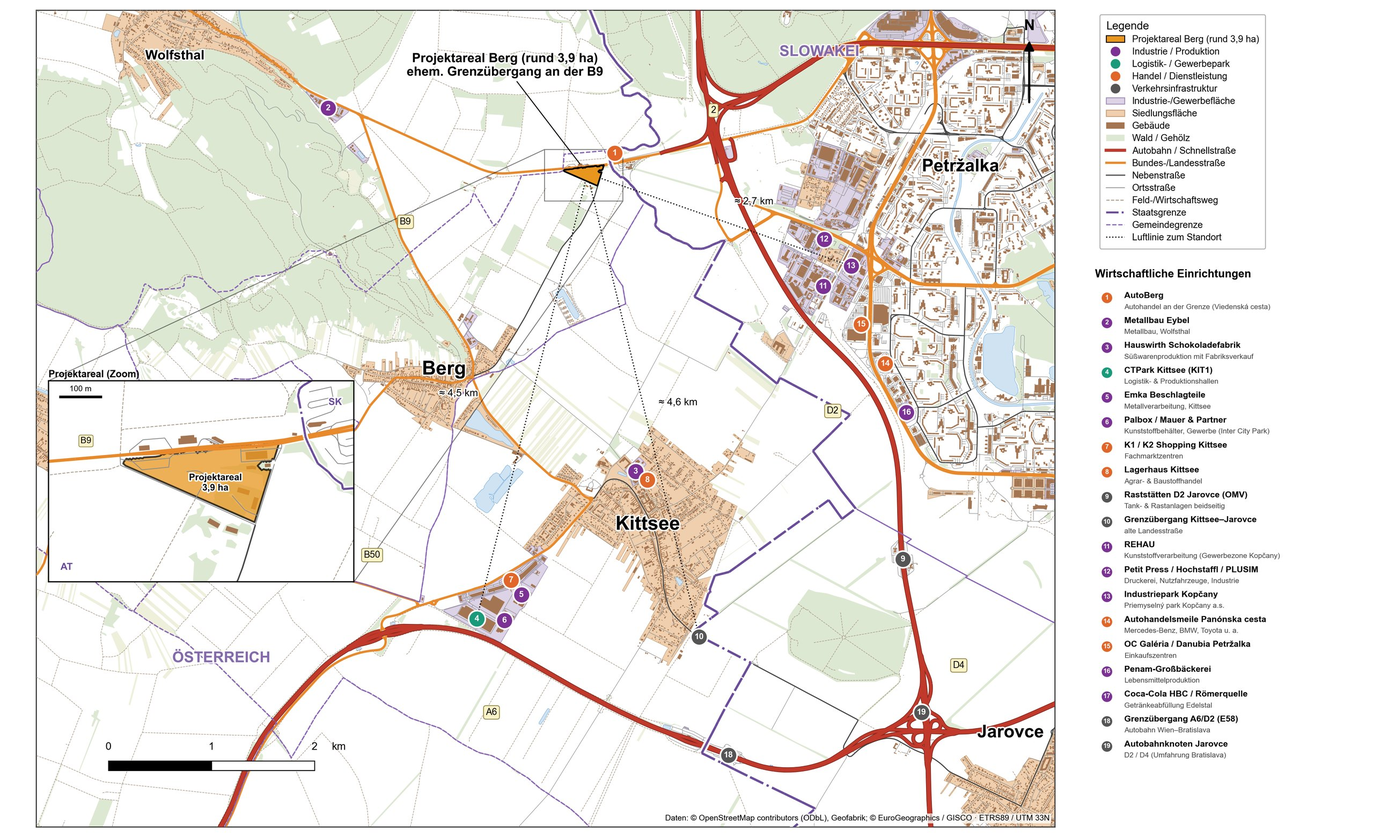
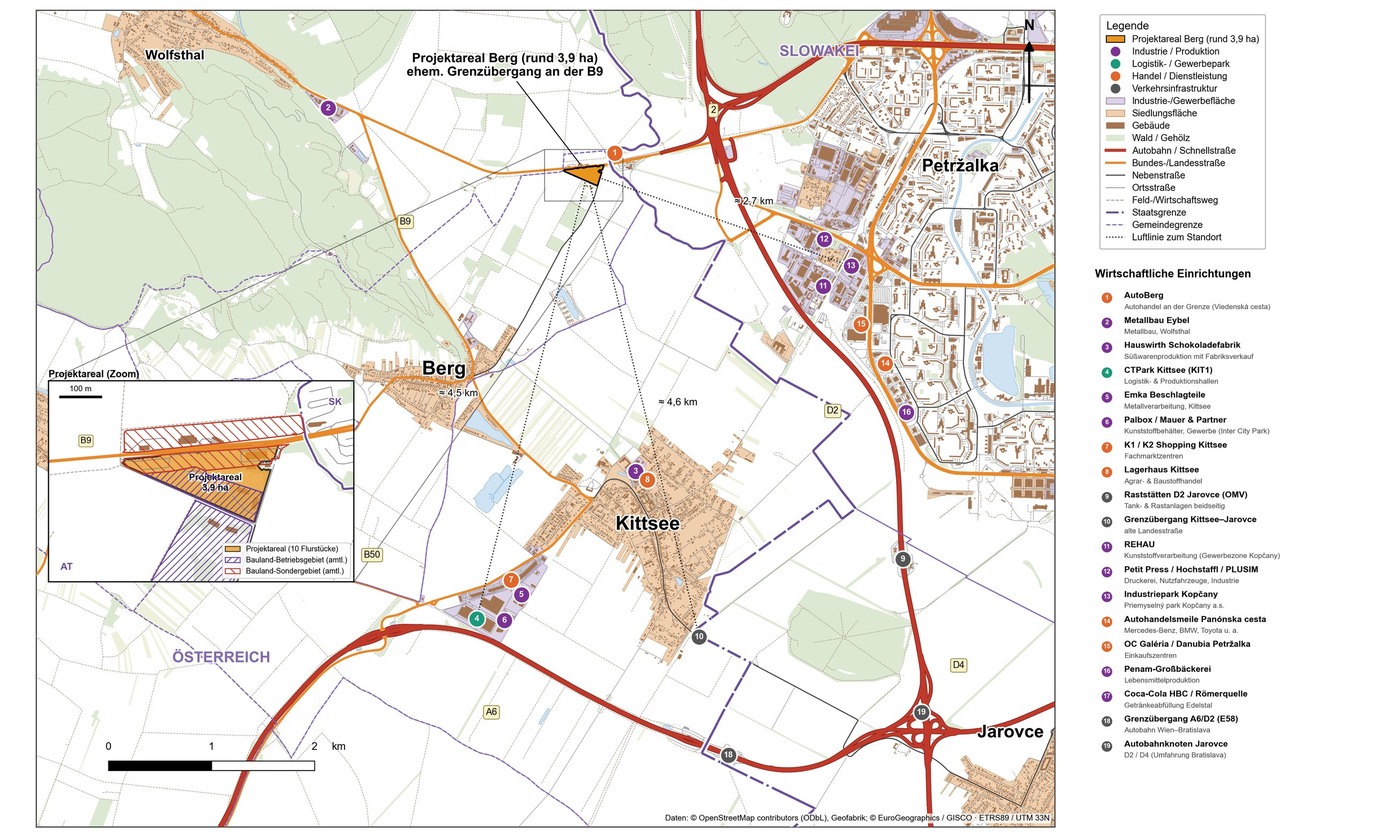
Nachtrag: Widmungsabgleich (NÖ OGD), Linie 901, Orth an der Donau
- Projektareal mit amtlicher Widmungsumhüllender abgeglichen (BB/BS bestätigt,
  rechtswirksam seit 2023; angrenzende 4,19 ha BB und 2,32 ha BS ergänzt)
- Rechtslage BS-Zweckbindung (§ 16 Abs. 1 Z 6, § 25 NÖ ROG 2014)
- Linie 901: fährt laut amtl. Fahrplan ohne Halt am Areal vorbei
- Orth an der Donau: Betriebsgebiet Nord 4,4 ha statt ~3,9 ha
- Detailkarte: Inset mit amtlichen Widmungsflächen

Changed region(s): [[0.0935, 0.4923, 0.2492, 0.7077]]

diff --git a/index.html b/index.html
@@ -42,7 +42,7 @@
         <dt>Projektareal</dt><dd>rund 3,9 ha · 10 Flurstücke · KG Berg 05102</dd>
         <dt>Ziel</dt><dd>hochwertiger, arbeitsplatzintensiver Betriebsstandort in der TwinCity-Region</dd>
       </dl>
-      <div class="version-note">Diese Fassung ersetzt die Version vom 23.09.2026. Sie korrigiert unter anderem die Bevölkerungsdynamik Bratislavas (Zensusbruch 2021) und die Verortung des VW-Clusters und ergänzt Karten zu Wirtschaftsraum, Energieinfrastruktur und Pkw-Erreichbarkeit. Alle Änderungen stehen im <a href="#aenderungen" style="color:#f5c27a">Änderungsprotokoll</a>.</div>
+      <div class="version-note">Diese Fassung ersetzt die Version vom 23.09.2026 (Nachtrag 29.09.: Widmungsabgleich, Linie 901, Orth). Sie korrigiert unter anderem die Bevölkerungsdynamik Bratislavas (Zensusbruch 2021) und die Verortung des VW-Clusters und ergänzt Karten zu Wirtschaftsraum, Energieinfrastruktur und Pkw-Erreichbarkeit. Alle Änderungen stehen im <a href="#aenderungen" style="color:#f5c27a">Änderungsprotokoll</a>.</div>
     </div>
     <figure>
       <img src="assets/karte2_detail_standort.jpg" alt="Detailkarte: Projektareal Berg an der B9 mit wirtschaftlichen Einrichtungen in Kittsee, Jarovce und Petržalka">
@@ -74,7 +74,7 @@
     <li><b>Fachkräfte: Engpässe bei Mechatronik und Logistik, Chancen bei Wissensdiensten</b>Mechatronik und technische Zulieferung sind beidseits der Grenze Mangelfelder und konkurrieren mit dem VW-Cluster Bratislava. Wissensbasierte Dienstleistungen sind am wenigsten umkämpft. Der Europacampus Hainburg (ab 2028) ist der naheliegende Bildungsanker (Kap. 4).</li>
     <li><b>Energie: Hochspannung in der Nähe, Wind in Sichtweite</b>Die nächste 110-kV-Leitung verläuft rund 1 km vom Areal. Im Umkreis von 15 km sind in OpenStreetMap elf Windparks mit zusammen rund 213 MW erfasst. Anschlusskapazitäten sind mit Netz NÖ bzw. APG zu klären (Kap. 6).</li>
     <li><b>Empfohlene Positionierung</b>Kleinteilig, hochwertig und komplementär zu den großflächigen Logistik- und Automotive-Standorten der Region. Schwerpunkt auf wissens- und ausbildungsnahen Nutzungen mit Bezug nach Bratislava und zum Europacampus (Kap. 8).</li>
-    <li><b>Zentrale Restriktionen</b>Umwidmung der Glf-Teilflächen (0,63 ha), fehlende ÖV-Anbindung des Areals, fehlende belastbare Flächennachfragedaten sowie die Nähe zu slowakischen Natura-2000-Gebieten (&lt; 1 km) (Kap. 6, 8).</li>
+    <li><b>Zentrale Restriktionen</b>Umwidmung der Glf-Teilflächen (0,63 ha), Zweckbindung der BS-Flächen (1,6 ha), fehlende ÖV-Anbindung des Areals (die Linie 901 fährt ohne Halt vorbei), fehlende belastbare Flächennachfragedaten sowie die Nähe zu slowakischen Natura-2000-Gebieten (&lt; 1 km) (Kap. 6, 8).</li>
   </ul>
 </div>
 </section>
@@ -98,15 +98,38 @@
   <h3>Flurstücke und Flächenwidmung</h3>
   <p>Die zehn Flurstücke haben keine einheitliche Widmung.</p>
   <ul class="clean">
-    <li><b>Bereits gewerblich nutzbar:</b> Bauland-Betriebsgebiet (BB, 1,67 ha) und Bauland-Sondergebiet für Einrichtungen des Grenzverkehrs (BS, 1,62 ha). Beim BS ist zu prüfen, ob die Zweckbindung „Grenzverkehr“ eine gewerbliche Nachnutzung ohne Umwidmung zulässt.</li>
+    <li><b>Bauland-Betriebsgebiet (BB, 1,67 ha):</b> gewerblich nutzbar.</li>
+    <li><b>Bauland-Sondergebiet (BS, 1,62 ha):</b> nur für den im Flächenwidmungsplan festgelegten Zweck nutzbar (siehe Kasten unten).</li>
     <li><b>Umwidmung nötig:</b> Ein östlicher Teil (Flurstücke 479/7 und 479/8) ist als Grünland-Land- und Forstwirtschaft (Glf, 0,63 ha, 16 % der Fläche) gewidmet.</li>
     <li><b>Kleinstflurstücke:</b> Drei Flurstücke umfassen zusammen nur rund 0,035 ha. Das ist für Zusammenlegung und Eigentumsklärung relevant.</li>
   </ul>
 
   <figure class="fig">
     <img src="assets/karte_widmung_projektareal.png" alt="Flurstücke und rekonstruierte Flächenwidmung des Projektareals Berg">
-    <figcaption><b>Abb. 2: Flurstücke und rekonstruierte Flächenwidmung</b> (BB 1,67 ha, BS 1,62 ha, Glf 0,63 ha; Σ 3,92 ha). Die Widmung ist aus der Kartenskizze des Honorarangebots rekonstruiert und nicht rechtsverbindlich. In der Grafik ist die Staatsgrenze nur schematisch als Gerade dargestellt; den genauen Verlauf zeigt Abb. 1. Quelle: BEV Digitale Katastralmappe; eigene Darstellung.</figcaption>
+    <figcaption><b>Abb. 2: Flurstücke und rekonstruierte Flächenwidmung</b> (Bezeichnung „BS – Sondergebiet (Einrichtungen des Grenzverkehrs)“ aus dem Honorarangebot übernommen; zum tatsächlichen Zusatz siehe Kasten unten) (BB 1,67 ha, BS 1,62 ha, Glf 0,63 ha; Σ 3,92 ha). Die Widmung ist aus der Kartenskizze des Honorarangebots rekonstruiert und nicht rechtsverbindlich. In der Grafik ist die Staatsgrenze nur schematisch als Gerade dargestellt; den genauen Verlauf zeigt Abb. 1. Quelle: BEV Digitale Katastralmappe; eigene Darstellung.</figcaption>
   </figure>
+
+  <div class="box fix">
+    <h4>Abgleich mit den amtlichen Widmungsdaten des Landes NÖ</h4>
+    <p>Der offene Datensatz „Widmungsumhüllende“ des Landes NÖ (Stand 22.09.2026) bestätigt die Rekonstruktion:</p>
+    <ul class="clean">
+      <li>Im Areal liegen 1,67 ha Bauland-Betriebsgebiet und 1,61 ha Bauland-Sondergebiet.</li>
+      <li>Beide Widmungen sind seit 5.1.2023 rechtswirksam, wurden also erst vor Kurzem festgelegt.</li>
+    </ul>
+    <p><b>Neu:</b> Unmittelbar angrenzend, aber außerhalb der zehn Flurstücke, sind weitere Flächen gewidmet:</p>
+    <ul class="clean">
+      <li>4,19 ha Bauland-Betriebsgebiet südwestlich des Areals</li>
+      <li>2,32 ha Bauland-Sondergebiet nördlich der B9, im ehemaligen Abfertigungsbereich</li>
+    </ul>
+    <p>Rund um den früheren Grenzübergang sind damit knapp 10 ha Bauland gewidmet. Eigentum und Verfügbarkeit dieser Nachbarflächen sollten geklärt werden. Sie sind ein mögliches Erweiterungs- oder Arrondierungspotenzial und zugleich eine mögliche Konkurrenz.</p>
+  </div>
+
+  <div class="box warn">
+    <h4>Zweckbindung des Bauland-Sondergebiets (BS)</h4>
+    <p><b>Rechtslage:</b> Nach § 16 Abs. 1 Z 6 NÖ ROG 2014 sind Sondergebiete für bauliche Nutzungen bestimmt, „deren besonderer Zweck im Flächenwidmungsplan durch einen Zusatz zur Signatur ausdrücklich festgelegt ist“. Eine gewerbliche Nutzung außerhalb dieses Zwecks ist ohne Änderung des Flächenwidmungsplans nicht zulässig; nötig wäre eine Umwidmung in BB oder ein neuer Zusatz. Bauvorhaben müssen widmungskonform sein.</p>
+    <p><b>Anlass für eine Änderung:</b> In Frage kommt § 25 Abs. 1 Z 2 NÖ ROG („wesentliche Änderung der Grundlagen“), etwa der Wegfall der Grenzkontrollen seit dem Schengen-Beitritt 2007. Alternativ Z 5 (Umsetzung eines Entwicklungskonzepts) im Zuge der ÖEK-Anpassung.</p>
+    <p><b>Auffällig:</b> Das Land klassifiziert die BS-Flächen am Areal in seinen Geodaten nicht als Verkehrs- oder Grenzeinrichtung. Die Einstufung (HILUCS) lautet „Kultur-, Unterhaltungs- und Freizeitdienstleistungen“. Der tatsächliche Zusatz weicht damit möglicherweise von „Einrichtungen des Grenzverkehrs“ ab. Er ist im rechtsgültigen Flächenwidmungsplan bei der Gemeinde einzusehen. Davon hängt ab, welche Nutzungen auf 1,6 ha ohne Umwidmung möglich sind.</p>
+  </div>
 
   <div class="two-col">
     <div class="box info"><h4>Technische Infrastruktur</h4><p><b>Glasfaser:</b> symmetrischer Gigabit-Anschluss (FTTH, A1) am Zollamtsstandort, Datenstand Q1/2026. <b>Mobilfunk:</b> 5G bis 563 Mbit/s (Drei), 4G aller drei Netzbetreiber. <b>Strom:</b> 110-kV-Leitung in rund 1 km Entfernung (Kap. 6).</p></div>
@@ -240,7 +263,12 @@
   <div class="box fix">
     <h4>Ansatzpunkte für die „letzte Meile“</h4>
     <ul class="clean">
-      <li><b>Linie 901 (Bratislava–Hainburg):</b> Sie verkehrt laut IDS BK von Bratislava (Most SNP, Einsteinova) über Wolfsthal nach Hainburg und fährt damit voraussichtlich auf der B9 direkt am Areal vorbei. Takt: stündlich, in der Hauptverkehrszeit alle 30 Minuten. Eine Haltestelle am Areal sollte vorrangig geprüft werden.</li>
+      <li><b>Linie 901 (Bratislava–Hainburg, ARRIVA/IDS BK):</b> Laut amtlichem Fahrplan (Lizenz 102833) fährt der Bus von Bratislava, Einsteinova ohne Zwischenhalt in 9 Minuten nach Wolfsthal, Am Friedhof. Das geht nur über den Grenzübergang Berg–Petržalka, der Bus fährt also auf der B9 direkt am Areal vorbei. Eine Haltestelle gibt es dort derzeit nicht.
+        <ul class="clean" style="margin-top:.4em">
+          <li><b>Angebot:</b> Laut IDS BK aktuell werktags 23 Kurspaare, in der Hauptverkehrszeit alle 30 Minuten, sonst etwa stündlich (Fahrplan-PDF 2022: 16 Fahrten je Richtung); sonntags etwa alle zwei Stunden.</li>
+          <li><b>Machbarkeit:</b> Ein zusätzlicher Halt ist naheliegend. Er kostet nur rund eine Minute Fahrzeit, liegt in der bereits bedienten Tarifzone 190, und an der B9 sind ehemalige Abfertigungsflächen vorhanden.</li>
+          <li><b>Voraussetzungen:</b> eine Änderung der Linienkonzession (Antrag über VOR/Land NÖ und IDS BK) sowie die Zustimmung des Straßenerhalters der B9 (Land NÖ) für eine Haltestellenbucht.</li>
+        </ul></li>
       <li><b>Linie 902 (Testbetrieb, Interreg NUTSHELL@CE):</b> Bratislava-Petržalka – Kittsee – Berg – Edelstal – Prellenkirchen, dreimonatig und kostenlos. Linienführung, Haltestelle am Areal und dauerhafter Betrieb sind noch offen.</li>
     </ul>
   </div>
@@ -415,7 +443,7 @@
     <tbody>
       <tr style="background:#fbfbfa"><td><b>Berg (Referenz)</b></td><td>3,9 ha</td><td colspan="5">kein eigener Autobahnanschluss · Wissensbezug angestrebt (Europacampus) · Gemeinde/Land · direkt an der Grenze</td><td>–</td></tr>
       <tr><td>Techno-Park Tulln</td><td>rund 5 ha</td><td><span class="pill good">hoch</span></td><td><span class="pill mid">teilweise</span></td><td><span class="pill good">hoch</span></td><td><span class="pill good">hoch</span></td><td><span class="pill mid">teilweise</span></td><td>Thematischer Fokus, Campus-/Netzwerklogik</td></tr>
-      <tr><td>Orth an der Donau</td><td>lt. Vorfassung ~3,9 ha*</td><td><span class="pill good">hoch</span></td><td><span class="pill good">hoch</span></td><td><span class="pill na">gering</span></td><td><span class="pill good">hoch</span></td><td><span class="pill mid">teilweise</span></td><td>Maßvolle, kommunal steuerbare Entwicklung</td></tr>
+      <tr><td>Orth an der Donau (Betriebsgebiet Nord)</td><td>rund 4,4 ha*</td><td><span class="pill good">hoch</span></td><td><span class="pill good">hoch</span></td><td><span class="pill na">gering</span></td><td><span class="pill good">hoch</span></td><td><span class="pill mid">teilweise</span></td><td>Maßvolle, kommunal steuerbare Entwicklung</td></tr>
       <tr><td>xista science park</td><td>4.060 m² BGF</td><td><span class="pill mid">teilweise</span></td><td><span class="pill good">hoch</span></td><td><span class="pill good">hoch</span></td><td><span class="pill good">hoch</span></td><td><span class="pill na">gering</span></td><td>Kleine, flexible Einheiten mit Forschungsanker</td></tr>
       <tr><td>TFZ Wieselburg-Land</td><td>k. A.</td><td><span class="pill mid">teilweise</span></td><td><span class="pill good">hoch</span></td><td><span class="pill good">hoch</span></td><td><span class="pill good">hoch</span></td><td><span class="pill na">gering</span></td><td>Modulare Entwicklung, gemeinsame Versuchsinfrastruktur</td></tr>
       <tr><td>Access Industrial Park Gmünd–Č. Velenice (AT–CZ)</td><td>rund 83 ha</td><td><span class="pill na">gering</span></td><td><span class="pill good">hoch</span></td><td><span class="pill na">gering</span></td><td><span class="pill good">hoch</span></td><td><span class="pill good">hoch</span></td><td>Zweisprachige, gemeinsame Governance und Vermarktung</td></tr>
@@ -425,11 +453,11 @@
       <tr><td>Avantis Aachen–Heerlen (DE–NL)</td><td>rund 40 ha</td><td><span class="pill mid">teilweise</span></td><td><span class="pill na">gering</span></td><td><span class="pill mid">teilweise</span></td><td><span class="pill good">hoch</span></td><td><span class="pill mid">teilweise</span></td><td>Warnbeispiel: Profil ohne Nachfrageanker driftet</td></tr>
     </tbody>
   </table></div>
-  <p style="font-size:.88rem;color:var(--muted)">Farben zeigen die Ähnlichkeit zu Berg: grün = hoch, gelb = teilweise, grau = gering. * Die Flächenangabe zu Orth ist identisch mit Berg und daher zu verifizieren. Korrigiert gegenüber der Vorfassung: Collegium Polonicum hat als Einzelgebäude nur „teilweise“ Flächenähnlichkeit; die Trägerschaft durch Universitäten ist nur „teilweise“ mit Gemeinde/Land vergleichbar.</p>
+  <p style="font-size:.88rem;color:var(--muted)">Farben zeigen die Ähnlichkeit zu Berg: grün = hoch, gelb = teilweise, grau = gering. * Orth an der Donau hat laut amtlichen Widmungsdaten 35,6 ha Bauland-Betriebsgebiet in neun Flächen. Keine davon hat rund 3,9 ha. Die größte Fläche (20,6 ha) ist das Pfizer-Werk. Mit Berg vergleichbar ist am ehesten das „Betriebsgebiet Nord“ mit 4,4 ha, gewidmet seit 2022. Die Angabe „~3,9 ha“ der Vorfassung war nicht belegbar. Eigentum der Gemeinde und Lage an der L9 sind noch zu bestätigen. Korrigiert gegenüber der Vorfassung: Collegium Polonicum hat als Einzelgebäude nur „teilweise“ Flächenähnlichkeit; die Trägerschaft durch Universitäten ist nur „teilweise“ mit Gemeinde/Land vergleichbar.</p>
 
   <details><summary>Steckbriefe der Referenzstandorte</summary><div>
     <p><b>Techno-Park Tulln (~5 ha):</b> Teil des Technopols Tulln, Fokus auf biobasierte Technologien. Die Flächen sind vollständig verwertet, Träger sind ecoplus und regionale Partner.</p>
-    <p><b>Orth an der Donau:</b> Kommunales Betriebsgebiet im Eigentum der Marktgemeinde, verkehrsintensive Nutzungen sind begrenzt. Lehre: klare Kriterien vor der Vermarktung.</p>
+    <p><b>Orth an der Donau:</b> „Betriebsgebiet Nord“, rund 4,4 ha Bauland-Betriebsgebiet, gewidmet seit 2022. Laut Vorfassung im Eigentum der Marktgemeinde und mit Beschränkung verkehrsintensiver Nutzungen; beides ist noch zu bestätigen. Lehre: klare Kriterien vor der Vermarktung.</p>
     <p><b>xista science park (Klosterneuburg):</b> rund 4.060 m² Büro/Labor, Einheiten ab ca. 15 m², Anbindung an das ISTA. Setzt eine konkrete Forschungspartnerschaft voraus.</p>
     <p><b>TFZ Wieselburg-Land:</b> Flexible Büro-, Labor- und Versuchsflächen zu Bioenergie, Agrar- und Lebensmitteltechnologie sowie Wasser. Die Grenzlage fehlt.</p>
     <p><b>Access Industrial Park Gmünd–České Velenice:</b> Gegründet 1991, gilt als erster grenzüberschreitender Industriepark Europas (rund 33 ha AT, 50 ha CZ). Rund 45 Unternehmen mit etwa 1.800 Beschäftigten.</p>
@@ -463,7 +491,7 @@
       <li>0,67 Mio. Einwohner:innen in 30 Minuten (grenzüberschreitend)</li>
       <li>Gigabit-Glasfaser (FTTH) und 5G bereits vorhanden</li>
       <li>Hochspannungsnetz in rund 1 km, starke Windkraftregion</li>
-      <li>Zu 84 % bereits als Bauland (BB/BS) gewidmet</li>
+      <li>Zu 84 % bereits als Bauland gewidmet (seit 2023); weitere 6,5 ha Bauland direkt angrenzend</li>
     </ul></div>
     <div class="w"><h4>Schwächen</h4><ul>
       <li>Kleines, zersplittertes Areal (10 Flurstücke, 3 Kleinstflurstücke)</li>
@@ -473,7 +501,7 @@
     </ul></div>
     <div class="o"><h4>Chancen</h4><ul>
       <li>Kooperation mit dem Europacampus Hainburg (ab 2028)</li>
-      <li>Haltestelle der Linie 901 bzw. 902 am Areal</li>
+      <li>Haltestelle der Linie 901 am Areal (der Bus fährt bereits vorbei) bzw. der Linie 902</li>
       <li>Green-Tech-Profil mit Bezug zur regionalen Windkraft</li>
       <li>Grenzüberschreitende Governance (Vorbild: Access Industrial Park)</li>
       <li>Kaufkräftige Nachfrage aus Bratislava für Dienstleistungen und Tagungen</li>
@@ -481,7 +509,7 @@
     <div class="t"><h4>Risiken</h4><ul>
       <li>Fachkräftekonkurrenz mit VW-Cluster und Industrie Bratislava (Mechatronik, Logistik)</li>
       <li>Nahe Konkurrenzflächen: CTPark Kittsee, Gewerbezone Kopčany, langfristig Jarovce–Kittsee</li>
-      <li>Umwidmung der Glf-Flächen mit offenem Ausgang; Zweckbindung der BS-Flächen</li>
+      <li>Umwidmung der Glf-Flächen mit offenem Ausgang; BS-Flächen nur für den festgelegten Zweck nutzbar</li>
       <li>Natura-2000-Gebiete in &lt; 1 km (Slowakei)</li>
     </ul></div>
   </div>
@@ -523,7 +551,8 @@
   <h3>Nächste Schritte</h3>
   <ol class="clean">
     <li>Kooperationsmöglichkeiten mit dem Europacampus Hainburg sondieren (USTP, TU Wien).</li>
-    <li>Haltestelle der Linie 901 am Areal mit VOR und IDS BK prüfen; Testbetrieb der Linie 902 auswerten.</li>
+    <li>Antrag auf eine Haltestelle der Linie 901 am Areal über VOR/Land NÖ und IDS BK stellen; Testbetrieb der Linie 902 auswerten.</li>
+    <li>Den Wortlaut des BS-Zusatzes im Flächenwidmungsplan einsehen und Eigentum sowie Verfügbarkeit der angrenzenden Bauland-Flächen (4,19 ha BB, 2,32 ha BS) klären.</li>
     <li>Netzanschlusskapazität bei Netz NÖ anfragen.</li>
     <li>Flächennachfragedaten (ecoplus, WKO NÖ, SARIO) nachreichen.</li>
     <li>Die Widmungsrekonstruktion mit dem rechtsgültigen Flächenwidmungsplan abgleichen (Büro LP).</li>
@@ -552,16 +581,18 @@
       <tr><td>Widmungsbegriffe</td><td>„Sonderfläche“ bzw. „Grünland-Landwirtschaft“</td><td>Bauland-Sondergebiet (BS); Grünland-Land- und Forstwirtschaft (Glf)</td></tr>
       <tr><td>Abbildungen</td><td>Nummerierung nicht fortlaufend (Abb. 15 in Kap. 1); Bevölkerungskarte mit unterschiedlichen Zeitfenstern</td><td>fortlaufend nummeriert; Bevölkerungskarte durch einheitliche Zeitreihe ersetzt</td></tr>
       <tr><td>Neue Inhalte</td><td>–</td><td>Karten zu Wirtschaftsraum, Projektareal, Energieinfrastruktur und Pkw-Erreichbarkeit; Kapitel Energie; HTML-Tabellen statt Bildtabellen</td></tr>
-      <tr><td>Benchmarking</td><td>Collegium Polonicum in allen Kriterien „hoch“</td><td>Flächenmaßstab und Trägerschaft „teilweise“; Orth-Fläche zur Verifizierung markiert</td></tr>
+      <tr><td>Benchmarking</td><td>Collegium Polonicum in allen Kriterien „hoch“; Orth „~3,9 ha“</td><td>Flächenmaßstab und Trägerschaft „teilweise“; Orth korrigiert auf „Betriebsgebiet Nord“, 4,4 ha (amtliche Widmungsdaten)</td></tr>
+      <tr><td>Widmung (Nachtrag 29.09.)</td><td>nur Rekonstruktion aus Kartenskizze</td><td>Abgleich mit NÖ-Widmungsdaten: BB/BS bestätigt, rechtswirksam seit 2023; angrenzende Bauland-Flächen (6,5 ha) ergänzt; Rechtslage zur BS-Zweckbindung dargestellt</td></tr>
+      <tr><td>ÖV (Nachtrag 29.09.)</td><td>„letzte Meile ungelöst“</td><td>Linie 901 fährt laut amtlichem Fahrplan ohne Halt am Areal vorbei; Weg zu einer Haltestelle beschrieben</td></tr>
     </tbody>
   </table></div>
 
   <h3>Offene Prüfpunkte</h3>
   <ul class="clean">
-    <li>Die Flächenangabe „~3,9 ha“ für Orth an der Donau ist identisch mit Berg; bitte mit der Marktgemeinde verifizieren.</li>
+    <li><s>Flächenangabe Orth an der Donau</s> – <b>geklärt:</b> „Betriebsgebiet Nord“ rund 4,4 ha (amtliche Widmungsdaten); Eigentum noch zu bestätigen.</li>
     <li>Klären, ob die Gründungszahlen der WKO mit oder ohne selbständige Personenbetreuung verwendet wurden.</li>
-    <li>Zweckbindung der BS-Widmung („Einrichtungen des Grenzverkehrs“) für gewerbliche Nachnutzung prüfen.</li>
-    <li>Linienführung und mögliche Haltestelle der Linie 901 auf der B9 bestätigen.</li>
+    <li><s>Zweckbindung BS</s> – <b>rechtlich geklärt:</b> Eine Nutzung außerhalb des Zusatzes erfordert eine Änderung des Flächenwidmungsplans. <b>Offen:</b> der genaue Wortlaut des Zusatzes (Land klassifiziert „Kultur/Unterhaltung/Freizeit“).</li>
+    <li><s>Linie 901</s> – <b>geklärt:</b> Der Bus fährt am Areal vorbei, ohne Halt. Ein Halt ist per Änderung der Linienkonzession möglich; ein Antrag steht aus.</li>
     <li>Die Stromnetzdaten stammen aus OpenStreetMap; Kapazitäten und Vollständigkeit sind nicht verifiziert.</li>
   </ul>
 
@@ -570,6 +601,7 @@
       <li><b>Projektareal:</b> Aus der Flurstücks- und Widmungsgrafik der Vorfassung digitalisiert und an vier Straßen- und Wegpunkten aus OSM georeferenziert (Restfehler &lt; 3 m). Die Kanten wurden von den Straßenachsen auf die Flurstücksgrenzen zurückgesetzt (Fläche 3,9 ha). Nicht rechtsverbindlich.</li>
       <li><b>Erreichbarkeit:</b> Routingmodell auf dem vollständigen OSM-Straßennetz von Österreich, der Slowakei und Ungarn (Geofabrik). Richtgeschwindigkeiten je Straßenklasse, begrenzt durch Tempolimits; Einbahnen berücksichtigt; ohne Stau. Rasterauflösung 200 m. Die Bevölkerung ist gleichmäßig auf die Fläche der Gemeinden (LAU 2021) verteilt; das ist eine Näherung.</li>
       <li><b>Energie:</b> Leitungen, Umspannwerke, Kraftwerke und Windkraftanlagen aus OpenStreetMap (Overpass API, Stand 29.09.2026). Distanzen als Luftlinie.</li>
+      <li><b>Widmung:</b> Land NÖ, Open Government Data „Widmungsumhüllende“ (WFS OGD:RRU_WI_HUELLE, Stand 22.09.2026, CC BY 4.0). Sie enthält die Widmungsarten, aber nicht die Zusätze zur Signatur.</li>
       <li><b>Bevölkerung:</b> Eurostat demo_r_pjanaggr3 (1.1.). Die bereinigte Reihe verkettet das Bruchjahr 2021→2022 mit der mittleren Wachstumsrate der Nachbarjahre.</li>
     </ul>
   </div></details>
@@ -580,7 +612,8 @@
     <p><b>Geodaten:</b> OpenStreetMap-Mitwirkende (ODbL), Geofabrik-Extrakte Österreich, Slowakei, Ungarn; Overpass API; BEV Digitale Katastralmappe; Umweltbundesamt (Natura 2000 Österreich 2025); EEA (Natura 2000 Sites 2024).</p>
     <p><b>Wirtschaft &amp; Arbeitsmarkt:</b> WKO Gründungsstatistik 2024/2025; WKO NÖ Lehrlinge nach Bezirk 2025; WKO Fachkräfte-Radar 2026; Fachkräfteverordnung 2026; ÚPSVaR-Engpassliste Bratislavský kraj Q1/2025; Oesterreichs Energie (2026); SARIO-Regionsprofil Bratislavský kraj; <a href="https://www.iz.sk/en/projects/EU-indicators/gdp-per-capita-in-pps-of-eu-average-nuts-2">IZ Bratislava (BIP in PPS)</a>; <a href="https://wageindicator.org/salary/minimum-wage/minimum-wages-news/2026/minimum-wage-raised-in-slovakia-from-01-january-2026-january-01-2026">WageIndicator (Mindestlohn SK 2026)</a>.</p>
     <p><b>Standorte &amp; Planung:</b> <a href="https://zastupitelstvo.bratislava.sk/data/att/53755.pdf">Územný plán hlavného mesta SR Bratislavy (Industriepark Jarovce–Kittsee)</a>; <a href="https://wirtschaftsagentur-burgenland.at/wp-content/uploads/2025/04/lageplan-kittsee.pdf">Wirtschaftsagentur Burgenland – Businesspark Kittsee</a>; <a href="https://ctp.eu/industrial-warehouse-office-finder/austria/ctpark-kittsee/">CTPark Kittsee</a>; <a href="https://en.wikipedia.org/wiki/Volkswagen_Slovakia">Volkswagen Slovakia</a>; GEWINN 5/2024 und 5/2025 (Grundstückspreise).</p>
-    <p><b>Mobilität:</b> <a href="https://www.idsbk.sk/de/linie901_hainburg_bratislava/">IDS BK – Linie 901</a>; <a href="https://noeregional.at/sk/testbetrieb-fuer-neue-buslinie-902-nach-bratislava-umsetzung-in-2-jahreshaelfte-geplant/">NÖ.Regional – Buslinie 902</a>; AustriaTech/BMIMI ÖV-Güteklassen 2024; <a href="https://repository.corp.at/82/1/CORP2015_93.pdf">Roider et al. (2015), REAL CORP</a>; <a href="https://www.icmpd.org/file/download/48205/file/A%20Multitude%20of%20Mobilities_%20Cross-Border%20Practices%20in%20the%20Austrian_Hungarian%20and%20Austrian_Slovak%20Border%20Regions%20EN.pdf">Perchinig et al. (2018), ICMPD</a>.</p>
+    <p><b>Raumordnung:</b> <a href="https://www.ris.bka.gv.at/GeltendeFassung.wxe?Abfrage=LrNO&amp;Gesetzesnummer=20001080">NÖ Raumordnungsgesetz 2014 (§ 16, § 25)</a>; <a href="https://www.data.gv.at/katalog/en/dataset/widmungsumhullende">Land NÖ – Widmungsumhüllende (OGD)</a>.</p>
+    <p><b>Mobilität:</b> <a href="https://www.idsbk.sk/de/linie901_hainburg_bratislava/">IDS BK – Linie 901</a>; <a href="https://arriva.sk/files/ba/cp/2023/901.pdf">ARRIVA – Fahrplan Linie 901 (Lizenz 102833)</a>; <a href="https://imhd.sk/ba/linka/901/bd8180837c807f818782827c887f8075b3817f81837c80817c8084">imhd.sk – Linie 901</a>; <a href="https://noeregional.at/sk/testbetrieb-fuer-neue-buslinie-902-nach-bratislava-umsetzung-in-2-jahreshaelfte-geplant/">NÖ.Regional – Buslinie 902</a>; AustriaTech/BMIMI ÖV-Güteklassen 2024; <a href="https://repository.corp.at/82/1/CORP2015_93.pdf">Roider et al. (2015), REAL CORP</a>; <a href="https://www.icmpd.org/file/download/48205/file/A%20Multitude%20of%20Mobilities_%20Cross-Border%20Practices%20in%20the%20Austrian_Hungarian%20and%20Austrian_Slovak%20Border%20Regions%20EN.pdf">Perchinig et al. (2018), ICMPD</a>.</p>
     <p><b>Bildung:</b> <a href="https://www.tuwien.at/alle-news/news/spatenstich-fuer-den-europacampus-hainburg">TU Wien – Europacampus Hainburg</a>; <a href="https://www.ustp.at/en/stories/news/forward-looking-european-campus-hainburg">USTP</a>; <a href="https://skola.dualnaakademia.sk/dualne-vzdelavanie/">Duálna Akadémia</a>.</p>
     <p><b>Benchmarking:</b> <a href="https://www.ecoplus.at/wirtschaftsparks/techno-park-tulln/">ecoplus Techno-Park Tulln</a>; <a href="https://www.ecoplus.at/betriebsansiedlung/xista-science-park">xista science park</a>; <a href="https://www.ecoplus.at/betriebsansiedlung/technologie-und-forschungszentrum-wieselburg-land">TFZ Wieselburg-Land</a>; <a href="https://www.access.co.at/">Access Industrial Park</a>; <a href="https://www.cp.edu.pl/de/centrum_konferencyjne/index.html">Collegium Polonicum</a>; <a href="https://euro-go.eu/it/transalpinatrgevrope/ristrutturazione-progetto-e-finanziatori/">EVTZ GO – Piazza Transalpina</a>; <a href="https://www.epa-alzette-belval.fr/">EPA Alzette-Belval</a>; <a href="https://avantis.org/en/">Avantis</a>.</p>
     <p><b>Infrastruktur:</b> <a href="https://breitbandatlas.gv.at/">Breitbandatlas (Q1/2026)</a>; <a href="https://www.tpa-group.at/news/telearbeit-und-sozialversicherung-rahmenvereinbarung-nunmehr-auch-zwischen-oesterreich-und-slowakei-ab-1-juni-2023/">TPA (Telearbeit-Rahmenvereinbarung)</a>.</p>
